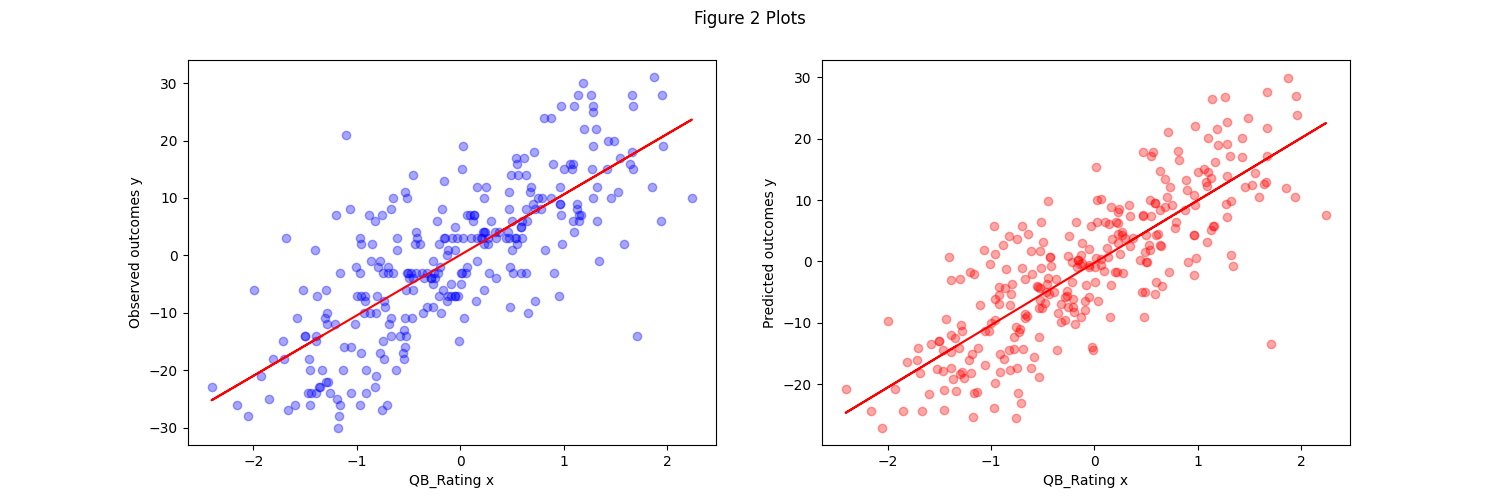
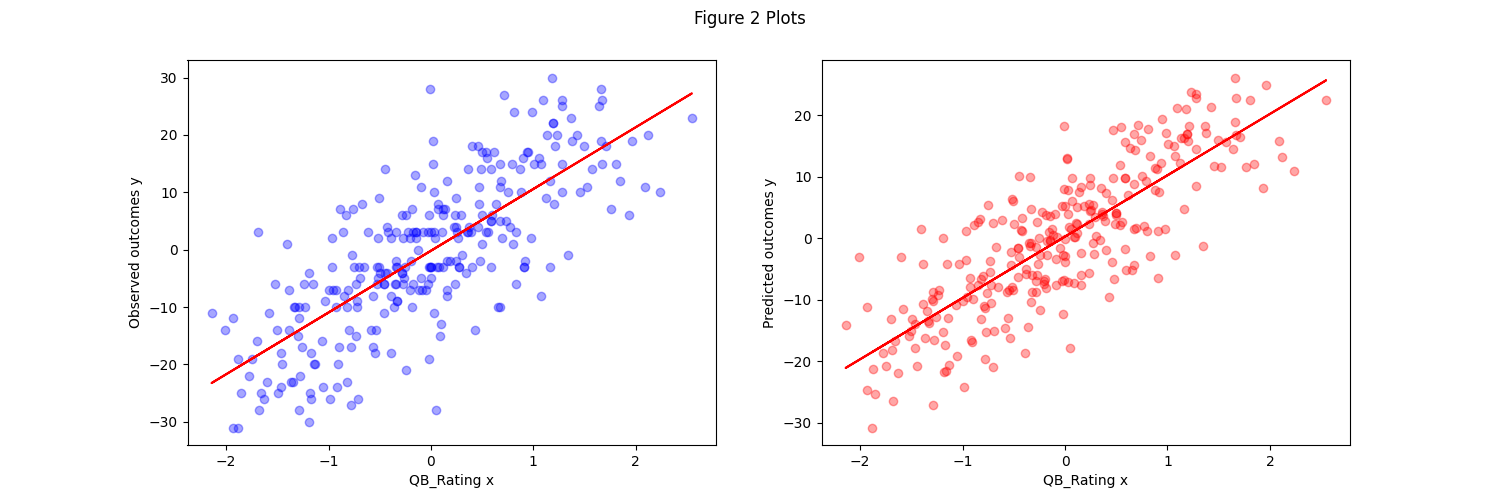
added multiple columns for postpi graphs
need to add the percent of significant statistics for each one

diff --git a/src/postpi.py b/src/postpi.py
@@ -122,6 +122,7 @@ def split_data(X_test, y_test):
     valid = test.sample(frac=0.5)
     test = test.drop(valid.index)
 
+
     return test, valid
 
 
@@ -130,6 +131,9 @@ def postprediction_inference(X_test, y_test, prediction_model, y_test_baseline, 
     all_parametric_estimates, all_parametric_se, all_parametric_t_stats = [], [], []
     all_nonparametric_estimates, all_nonparametric_se, all_nonparametric_t_stats = [], [], []
     all_nocorrection_estimates, all_nocorrection_se, all_nocorrection_t_stats = [], [], []
+
+    var = {"QBRating": 1, "TOP": -2}
+    var = var["TOP"]
 
     for i in range(1000):
         if i%100 == 0:
@@ -148,7 +152,7 @@ def postprediction_inference(X_test, y_test, prediction_model, y_test_baseline, 
         y_valid_corr = relationship_model.predict(sm.add_constant(y_valid_pred.reshape(-1,1)))
             
                 # ------------------- true outcomes - OLS
-        true_inf_model = sm.OLS(y_valid_corr, sm.add_constant(valid_set.iloc[:,1].values)).fit()
+        true_inf_model = sm.OLS(y_valid_corr, sm.add_constant(valid_set.iloc[:,var].values)).fit()
                 
         all_true_outcomes.append(true_inf_model.params[1])
         all_true_se.append(true_inf_model.bse[1])
@@ -162,7 +166,7 @@ def postprediction_inference(X_test, y_test, prediction_model, y_test_baseline, 
         all_nocorrection_t_stats.append(nocorr_inf_model.tvalues[1])
                 
                 # ------------------- parametric method
-        parametric_bs_estimate, parametric_bs_se = bootstrap_(valid_set.iloc[:,1], y_valid_pred, valid_set.iloc[:,-1].values, relationship_model)
+        parametric_bs_estimate, parametric_bs_se = bootstrap_(valid_set.iloc[:,var], y_valid_pred, valid_set.iloc[:,-1].values, relationship_model)
         parametric_t_stat = parametric_bs_estimate / parametric_bs_se
                 
         all_parametric_estimates.append(parametric_bs_estimate)
@@ -170,7 +174,7 @@ def postprediction_inference(X_test, y_test, prediction_model, y_test_baseline, 
         all_parametric_t_stats.append(parametric_t_stat)
                 
                 # ------------------- non-parametric method
-        nonparametric_bs_estimate, nonparametric_bs_se = bootstrap_(valid_set.iloc[:,1], y_valid_pred, valid_set.iloc[:,-1].values, relationship_model, False)
+        nonparametric_bs_estimate, nonparametric_bs_se = bootstrap_(valid_set.iloc[:,var], y_valid_pred, valid_set.iloc[:,-1].values, relationship_model, False)
         nonparametric_t_stat = nonparametric_bs_estimate / nonparametric_bs_se
                 
         all_nonparametric_estimates.append(nonparametric_bs_estimate)
